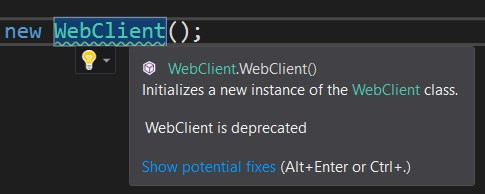
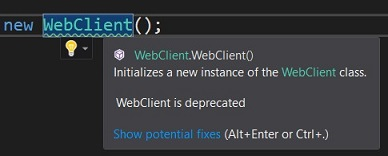
Minor updates

diff --git a/2017/10-Oct/compatibility-analyzer/compatibility-analyzer.md b/2017/10-Oct/compatibility-analyzer/compatibility-analyzer.md
@@ -1,12 +1,12 @@
 # Choose the right APIs from now on
 # Introducing Compatibility Analyzer
 
-Have you ever wondered which APIs are deprecated and which should you use instead? Or have you ever used an API and then found out it didn't work on Mac or Linux? Have that ever happened to you too late when a major part of your code is already implemented and refactoring turns into a living hell? All those problems can be avoided now with the new [Compatibility Analyzer](https://www.nuget.org/packages/) (TBD) that allows you to get a live feedback on API usage and warnings about potential problems with compatibility and deprecation.
+Have you ever wondered which APIs are deprecated and which should you use instead? Or have you ever used an API and then found out it didn't work on Mac or Linux? Have that ever happened to you too late when a major part of your code is already implemented and refactoring turns into a living hell? All those problems can be avoided now with the new [Compatibility Analyzer](https://www.nuget.org/packages/Microsoft.DotNet.Analyzers.Compatibility/) that allows you to get a live feedback on API usage and warnings about potential problems with compatibility and deprecation.
 
 # What is Compatibility Analyzer
-It is a Roslyn analyzer that comes as [NuGet package](https://www.nuget.org/packages/) (TBD). After referencing it in your project it automatically starts monitoring your code and underscores "dangerous" areas with a squiggle. On the right click you can get information about possible solution and suppress some or all warnings by type or operating system. 
+It is a Roslyn analyzer that comes as [NuGet package](https://www.nuget.org/packages/Microsoft.DotNet.Analyzers.Compatibility/). After referencing it in your project it automatically starts monitoring your code and underscores "dangerous" areas with a squiggle. On the right click you can get information about possible solution and suppress some or all warnings by type or operating system. 
 
-![](Deprecated.jpg) !
+![](GreenSquiggle.jpg) !
 
 Figuratively speaking Compatibility Analyzer is your virtual API expert who looks over your shoulder and gives you feedback as you code and then turns into your diligent assistant who does routine tasks and manages notifications.
 
@@ -29,14 +29,23 @@ So that is exactly what Compatibility Analyzer does - prompts your right away as
 If you still decide to keep using the old API and suppress warnings about only this specific case, it can be easily done by right click on the highlighted member and choosing "Quick Actions and Refactorings". Here you will get two suppression options: locally (in Source) or globally (in Suppression File). We encourage developers to use global suppression since if you have decided that it is ok to use some deprecated API it should be ok to use it everywhere in your project, so you'll suppress it only once in Suppression File for all the occurrences of this API and keep your code clean.
 
 ## Discovering cross-platform issues
-Because we’re a cross platform stack, some APIs don’t work on all the platforms. There are also types that work everywhere but certain members of that type would not be supported by each platform.  A good example is Console.WindowWidth that works on Windows but does not on Linux and MacOSX. However, we still included Console in .Net Core because of its wide usage. This way if your code has Console.WindowWidth it will crash when you try to run it on Linux or MacOSX. With Compatibility Analyzer you will get notified that the API is not supported which will help you to address the problem right away on a code composition phase. Even if you are targeting only one platform at this moment, your business goals might change in future and you will have to spend a lot of time going through your code figuring out if there are any cross-platform problems, where Compatibility Analyzer will highlight all the “dangerous” parts right away. 
+Because we’re a cross platform stack, some APIs don’t work on all the platforms. There are also types that work everywhere but certain members of that type would not be supported by each platform.  A good example is Console.WindowWidth that works on Windows but does not on Linux and MacOSX. However, we still included Console in .Net Core because of its wide usage. This way if your code has Console.WindowWidth it will crash when you try to run it on Linux or MacOSX. With Compatibility Analyzer you will get notified that the API is not supported which will help you to address the problem right away on a code composition phase. Even if you are targeting only one platform at this moment, your business goals might change in future and you will have to spend a lot of time going through your code figuring out if there are any cross-platform problems, where Compatibility Analyzer will highlight all the “dangerous” parts right away.
 
-The experience of analyzer handling compatibility issues is very similar to deprecation, you'll see a green squiggle, diagnostic ID in Error List window and will be able to suppress warning by right click and choosing "Quick Actions and Refactorings". You also can suppress all warnings for specific platform you don't plan to run your code on. For that you just need to edit your project file and add a property PlatformCompatIgnore that lists all platforms to be ignored:
+The experience of analyzer handling compatibility issues is very similar to deprecation, you'll see a green squiggle, diagnostic ID in Error List window and will be able to suppress warning by right click and choosing "Quick Actions and Refactorings". Unlike deprecation cases where you have two options: either keep using deprecated member and suppress warnings or not use it at all, here if you are developing your code only for certain platform  you can suppress all warnings for all other  platforms you don't plan to run your code on. To do so you just need to edit your project file and add a property PlatformCompatIgnore that lists all platforms to be ignored:
 ```
 <PropertyGroup>
     <PlatformCompatIgnore>Linux;MacOSX</PlatformCompatIgnore>
 </PropertyGroup>
 ```
+If your code targets multiple platforms and you want to take advantage of API not supported on some of them, you can guard that part of the code with conditional compilation directives so it will be executed only on supported platform. For example this code will be runned only on .NET Framework 4.6:
+```
+#if NET46
+    var w = Console.WindowWidth;
+#endif
+```
+In future we are considering adding a functionality to automatically generate this guarding code on a right click on the API that is not cross-platforms.
+
+You can also conditionally compile on operating system but you need to do it manually.
 
 ## Supported diagnostics
 Right now the analyzer handles following cases:
@@ -55,4 +64,4 @@ It is up to a user to decide how the diagnostics should be treated: as warnings,
 Compatibility Analyzer helps developers to be prompted right away if they are about to use a deprecated or non cross-platform functionality. Being notified so fast eliminates a need of refactoring the code in future and results in a better quality applications. 
 
 ## Call for feedback
-We are still working on this analyzer and would appreciate any feedback. What we did good, what we did bad, is it useful at all, is there anything else you'd like us to add into the analyzer. Please try [it] (https://www.nuget.org/packages/) (TBD) out and leave your feedback [here] (https://)(TBD).
+We are still working on this analyzer and would appreciate any feedback. What we did good, what we did bad, is it useful at all, is there anything else you'd like us to add into the analyzer. Please try [it] (https://www.nuget.org/packages/Microsoft.DotNet.Analyzers.Compatibility/) out and leave your feedback [here] (https://github.com/dotnet/platform-compat/issues/new).
